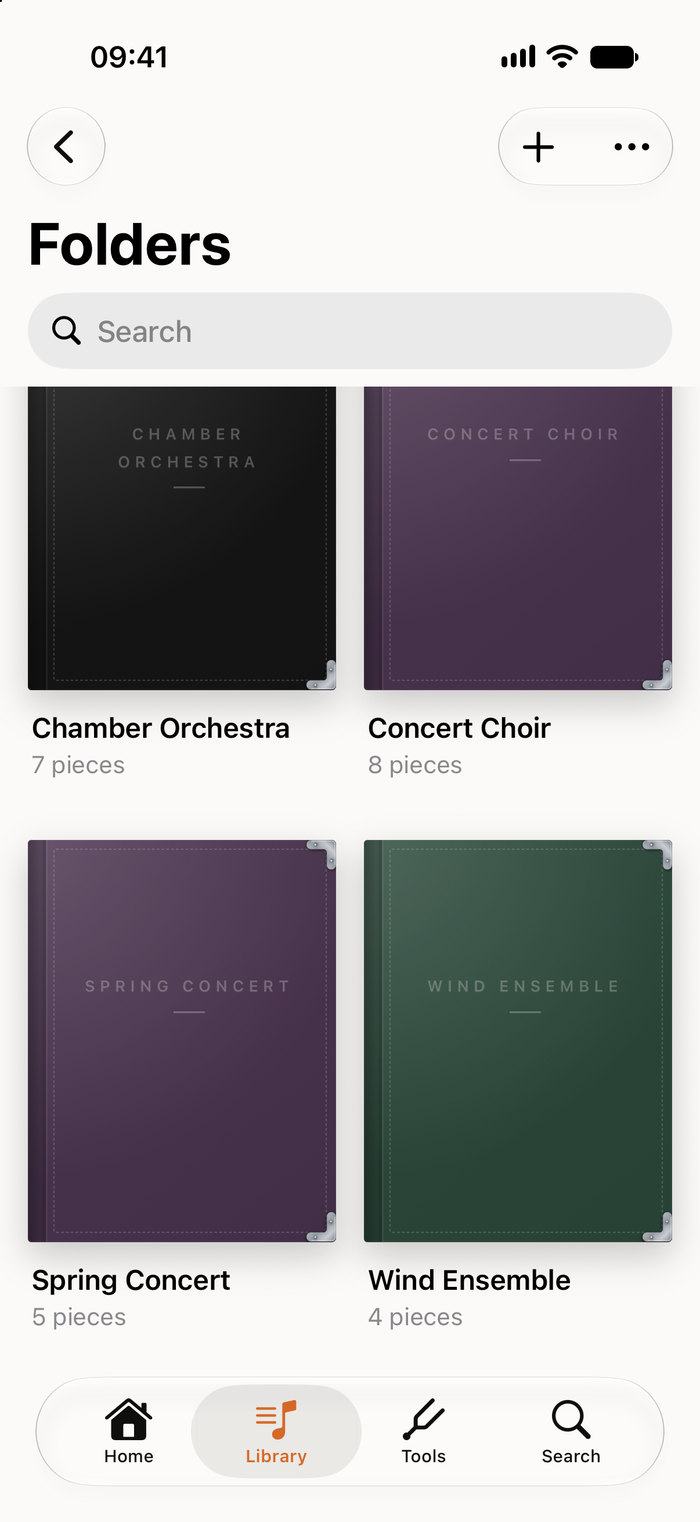
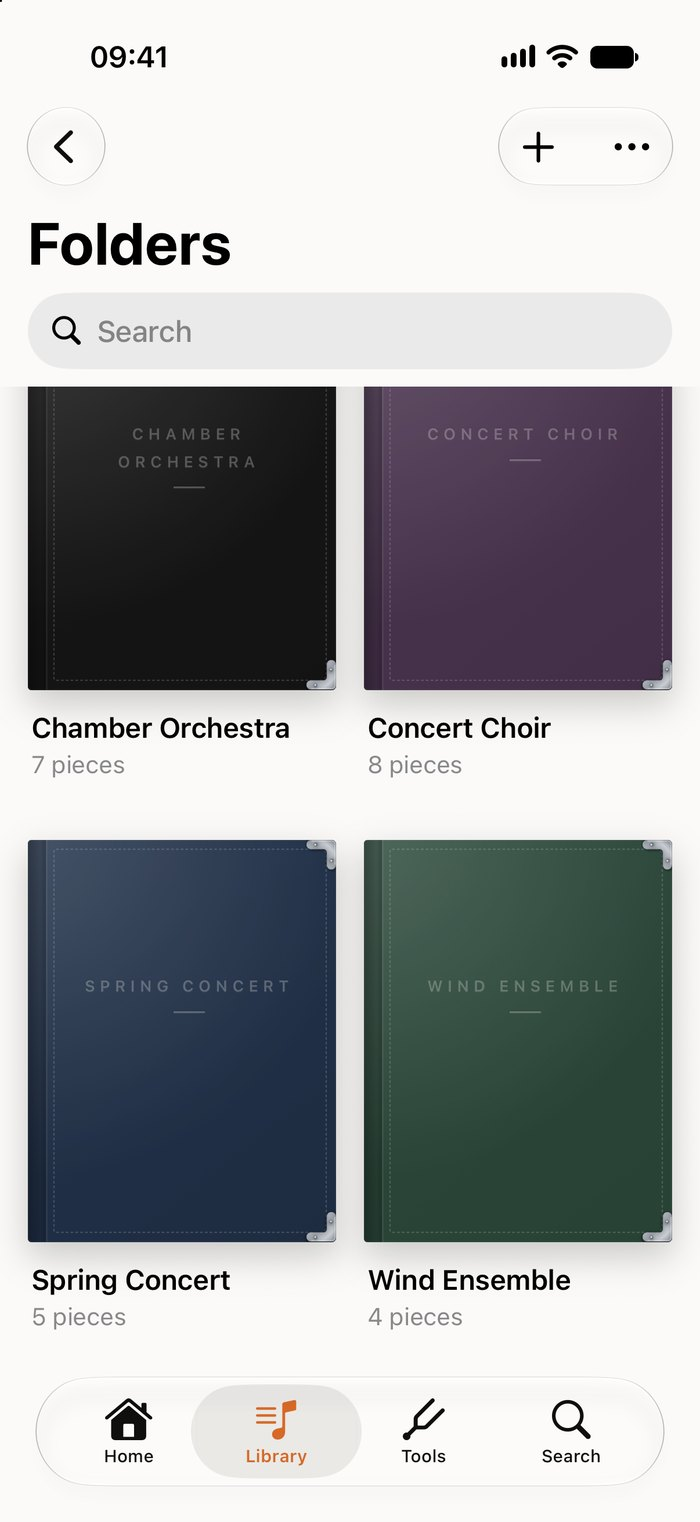
Orchestras & Choirs on Schubert's Ave Maria; Midnight Spring Concert; pencils; no "Free forever"
- Orchestras & Choirs hero: Schubert's Ave Maria (Ellens Gesang III, OpenScore
  CC0) in the 4.2 reader on MF iPad Pro 13 27.2, voice part with lyrics over the
  piano (reader-ave-maria-ipad.jpg, 900x1200), replacing the owner's horn part.
  Page Turner keeps hero-ipad-reader.jpg.
- Folders (iPhone): Spring Concert recoloured Midnight so it no longer matches
  Concert Choir's Plum; recaptured with the same framing.
- The Apple Pencil from Home rests on the single-iPad annotation frames on
  Orchestras & Choirs, Students and Sharing.
- Pricing and Home: "Free forever" removed under $0; Home's plan cards now
  match the 4.2 lists on the pricing page.

Changed region(s): [[0.03, 0.525, 0.48, 0.8338], [0.36, 0.9264, 0.42, 0.9573]]

diff --git a/pricing.html b/pricing.html
@@ -250,7 +250,7 @@
         <div class="plan-head">
           <h3 class="plan-name">Free</h3>
           <p class="plan-price tnum">$0</p>
-          <p class="plan-sub">Free forever</p>
+          
         </div>
         <ul class="plan-list">
           <li><svg viewBox="0 0 16 16" fill="none" stroke="currentColor" stroke-width="1.9" stroke-linecap="round" stroke-linejoin="round" aria-hidden="true"><path d="M3 8.5l3 3 7-7"/></svg><span><b>15</b> pieces</span></li>
@@ -297,7 +297,7 @@
 <section class="section" style="padding-top:0">
   <div class="wrap">
     <div class="section-head pr-center"><h2 class="heading">Everything in each plan.</h2></div>
-    <div class="pt-wrap"><table class="pt"><thead><tr><th scope="col"><span class="sr-only">Feature</span></th><th scope="col" class="pt-free"><span class="pt-name">Free</span><span class="pt-price">$0</span><span class="pt-sub">Free forever</span></th><th scope="col" class="pt-prem"><span class="pt-name">Premium</span><span class="pt-price">$2.99<small> / month</small></span><span class="pt-sub">or $19.99 / year · $49.99 lifetime</span></th></tr></thead><tbody><tr class="pt-group"><th scope="colgroup">Your library</th><td></td><td></td></tr><tr><th scope="row">Music</th><td class="tnum">15</td><td class="tnum">Unlimited</td></tr><tr><th scope="row">Sections</th><td class="tnum">5</td><td class="tnum">Unlimited</td></tr><tr><th scope="row">Folders</th><td class="tnum">1</td><td class="tnum">Unlimited</td></tr><tr><th scope="row">Set lists</th><td class="yes"><svg viewBox="0 0 16 16" fill="none" stroke="currentColor" stroke-width="1.9" stroke-linecap="round" stroke-linejoin="round" aria-hidden="true"><path d="M3 8.5l3 3 7-7"/></svg><span class="sr-only">Included</span></td><td class="yes"><svg viewBox="0 0 16 16" fill="none" stroke="currentColor" stroke-width="1.9" stroke-linecap="round" stroke-linejoin="round" aria-hidden="true"><path d="M3 8.5l3 3 7-7"/></svg><span class="sr-only">Included</span></td></tr><tr><th scope="row">Chord charts</th><td class="yes"><svg viewBox="0 0 16 16" fill="none" stroke="currentColor" stroke-width="1.9" stroke-linecap="round" stroke-linejoin="round" aria-hidden="true"><path d="M3 8.5l3 3 7-7"/></svg><span class="sr-only">Included</span></td><td class="yes"><svg viewBox="0 0 16 16" fill="none" stroke="currentColor" stroke-width="1.9" stroke-linecap="round" stroke-linejoin="round" aria-hidden="true"><path d="M3 8.5l3 3 7-7"/></svg><span class="sr-only">Included</span></td></tr><tr><th scope="row">Free sheet music from the catalog</th><td class="yes"><svg viewBox="0 0 16 16" fill="none" stroke="currentColor" stroke-width="1.9" stroke-linecap="round" stroke-linejoin="round" aria-hidden="true"><path d="M3 8.5l3 3 7-7"/></svg><span class="sr-only">Included</span></td><td class="yes"><svg viewBox="0 0 16 16" fill="none" stroke="currentColor" stroke-width="1.9" stroke-linecap="round" stroke-linejoin="round" aria-hidden="true"><path d="M3 8.5l3 3 7-7"/></svg><span class="sr-only">Included</span></td></tr><tr><th scope="row">Library backups</th><td class="yes"><svg viewBox="0 0 16 16" fill="none" stroke="currentColor" stroke-width="1.9" stroke-linecap="round" stroke-linejoin="round" aria-hidden="true"><path d="M3 8.5l3 3 7-7"/></svg><span class="sr-only">Included</span></td><td class="yes"><svg viewBox="0 0 16 16" fill="none" stroke="currentColor" stroke-width="1.9" stroke-linecap="round" stroke-linejoin="round" aria-hidden="true"><path d="M3 8.5l3 3 7-7"/></svg><span class="sr-only">Included</span></td></tr><tr class="pt-group"><th scope="colgroup">Reading and playing</th><td></td><td></td></tr><tr><th scope="row">Reader, landscape and play-through</th><td class="yes"><svg viewBox="0 0 16 16" fill="none" stroke="currentColor" stroke-width="1.9" stroke-linecap="round" stroke-linejoin="round" aria-hidden="true"><path d="M3 8.5l3 3 7-7"/></svg><span class="sr-only">Included</span></td><td class="yes"><svg viewBox="0 0 16 16" fill="none" stroke="currentColor" stroke-width="1.9" stroke-linecap="round" stroke-linejoin="round" aria-hidden="true"><path d="M3 8.5l3 3 7-7"/></svg><span class="sr-only">Included</span></td></tr><tr><th scope="row">Bluetooth page turning</th><td class="yes"><svg viewBox="0 0 16 16" fill="none" stroke="currentColor" stroke-width="1.9" stroke-linecap="round" stroke-linejoin="round" aria-hidden="true"><path d="M3 8.5l3 3 7-7"/></svg><span class="sr-only">Included</span></td><td class="yes"><svg viewBox="0 0 16 16" fill="none" stroke="currentColor" stroke-width="1.9" stroke-linecap="round" stroke-linejoin="round" aria-hidden="true"><path d="M3 8.5l3 3 7-7"/></svg><span class="sr-only">Included</span></td></tr><tr><th scope="row">Face Gesture page turning<sup>1</sup></th><td class="tnum">Demo</td><td class="yes"><svg viewBox="0 0 16 16" fill="none" stroke="currentColor" stroke-width="1.9" stroke-linecap="round" stroke-linejoin="round" aria-hidden="true"><path d="M3 8.5l3 3 7-7"/></svg><span class="sr-only">Included</span></td></tr><tr><th scope="row">Annotation with Apple Pencil</th><td class="yes"><svg viewBox="0 0 16 16" fill="none" stroke="currentColor" stroke-width="1.9" stroke-linecap="round" stroke-linejoin="round" aria-hidden="true"><path d="M3 8.5l3 3 7-7"/></svg><span class="sr-only">Included</span></td><td class="yes"><svg viewBox="0 0 16 16" fill="none" stroke="currentColor" stroke-width="1.9" stroke-linecap="round" stroke-linejoin="round" aria-hidden="true"><path d="M3 8.5l3 3 7-7"/></svg><span class="sr-only">Included</span></td></tr><tr><th scope="row">Song Notes</th><td class="yes"><svg viewBox="0 0 16 16" fill="none" stroke="currentColor" stroke-width="1.9" stroke-linecap="round" stroke-linejoin="round" aria-hidden="true"><path d="M3 8.5l3 3 7-7"/></svg><span class="sr-only">Included</span></td><td class="yes"><svg viewBox="0 0 16 16" fill="none" stroke="currentColor" stroke-width="1.9" stroke-linecap="round" stroke-linejoin="round" aria-hidden="true"><path d="M3 8.5l3 3 7-7"/></svg><span class="sr-only">Included</span></td></tr><tr><th scope="row">Chord chart transposition and capo</th><td class="no"><svg viewBox="0 0 16 16" fill="none" stroke="currentColor" stroke-width="1.6" stroke-linecap="round" aria-hidden="true"><path d="M4.5 8h7"/></svg><span class="sr-only">Not included</span></td><td class="yes"><svg viewBox="0 0 16 16" fill="none" stroke="currentColor" stroke-width="1.9" stroke-linecap="round" stroke-linejoin="round" aria-hidden="true"><path d="M3 8.5l3 3 7-7"/></svg><span class="sr-only">Included</span></td></tr><tr class="pt-group"><th scope="colgroup">Together</th><td></td><td></td></tr><tr><th scope="row">Collaboration on folders and set lists<sup>2</sup></th><td class="no"><svg viewBox="0 0 16 16" fill="none" stroke="currentColor" stroke-width="1.6" stroke-linecap="round" aria-hidden="true"><path d="M4.5 8h7"/></svg><span class="sr-only">Not included</span></td><td class="yes"><svg viewBox="0 0 16 16" fill="none" stroke="currentColor" stroke-width="1.9" stroke-linecap="round" stroke-linejoin="round" aria-hidden="true"><path d="M3 8.5l3 3 7-7"/></svg><span class="sr-only">Included</span></td></tr><tr><th scope="row">Send a one-time copy of music or a set list</th><td class="yes"><svg viewBox="0 0 16 16" fill="none" stroke="currentColor" stroke-width="1.9" stroke-linecap="round" stroke-linejoin="round" aria-hidden="true"><path d="M3 8.5l3 3 7-7"/></svg><span class="sr-only">Included</span></td><td class="yes"><svg viewBox="0 0 16 16" fill="none" stroke="currentColor" stroke-width="1.9" stroke-linecap="round" stroke-linejoin="round" aria-hidden="true"><path d="M3 8.5l3 3 7-7"/></svg><span class="sr-only">Included</span></td></tr><tr><th scope="row">iCloud sync across your devices</th><td class="yes"><svg viewBox="0 0 16 16" fill="none" stroke="currentColor" stroke-width="1.9" stroke-linecap="round" stroke-linejoin="round" aria-hidden="true"><path d="M3 8.5l3 3 7-7"/></svg><span class="sr-only">Included</span></td><td class="yes"><svg viewBox="0 0 16 16" fill="none" stroke="currentColor" stroke-width="1.9" stroke-linecap="round" stroke-linejoin="round" aria-hidden="true"><path d="M3 8.5l3 3 7-7"/></svg><span class="sr-only">Included</span></td></tr><tr class="pt-group"><th scope="colgroup">Practice</th><td></td><td></td></tr><tr><th scope="row">Recordings per song</th><td class="yes"><svg viewBox="0 0 16 16" fill="none" stroke="currentColor" stroke-width="1.9" stroke-linecap="round" stroke-linejoin="round" aria-hidden="true"><path d="M3 8.5l3 3 7-7"/></svg><span class="sr-only">Included</span></td><td class="yes"><svg viewBox="0 0 16 16" fill="none" stroke="currentColor" stroke-width="1.9" stroke-linecap="round" stroke-linejoin="round" aria-hidden="true"><path d="M3 8.5l3 3 7-7"/></svg><span class="sr-only">Included</span></td></tr><tr><th scope="row">Practice streaks</th><td class="yes"><svg viewBox="0 0 16 16" fill="none" stroke="currentColor" stroke-width="1.9" stroke-linecap="round" stroke-linejoin="round" aria-hidden="true"><path d="M3 8.5l3 3 7-7"/></svg><span class="sr-only">Included</span></td><td class="yes"><svg viewBox="0 0 16 16" fill="none" stroke="currentColor" stroke-width="1.9" stroke-linecap="round" stroke-linejoin="round" aria-hidden="true"><path d="M3 8.5l3 3 7-7"/></svg><span class="sr-only">Included</span></td></tr><tr><th scope="row">Metronome</th><td class="no"><svg viewBox="0 0 16 16" fill="none" stroke="currentColor" stroke-width="1.6" stroke-linecap="round" aria-hidden="true"><path d="M4.5 8h7"/></svg><span class="sr-only">Not included</span></td><td class="yes"><svg viewBox="0 0 16 16" fill="none" stroke="currentColor" stroke-width="1.9" stroke-linecap="round" stroke-linejoin="round" aria-hidden="true"><path d="M3 8.5l3 3 7-7"/></svg><span class="sr-only">Included</span></td></tr><tr><th scope="row">Tuner, tones and drones</th><td class="no"><svg viewBox="0 0 16 16" fill="none" stroke="currentColor" stroke-width="1.6" stroke-linecap="round" aria-hidden="true"><path d="M4.5 8h7"/></svg><span class="sr-only">Not included</span></td><td class="yes"><svg viewBox="0 0 16 16" fill="none" stroke="currentColor" stroke-width="1.9" stroke-linecap="round" stroke-linejoin="round" aria-hidden="true"><path d="M3 8.5l3 3 7-7"/></svg><span class="sr-only">Included</span></td></tr><tr><th scope="row">88-key piano</th><td class="no"><svg viewBox="0 0 16 16" fill="none" stroke="currentColor" stroke-width="1.6" stroke-linecap="round" aria-hidden="true"><path d="M4.5 8h7"/></svg><span class="sr-only">Not included</span></td><td class="yes"><svg viewBox="0 0 16 16" fill="none" stroke="currentColor" stroke-width="1.9" stroke-linecap="round" stroke-linejoin="round" aria-hidden="true"><path d="M3 8.5l3 3 7-7"/></svg><span class="sr-only">Included</span></td></tr><tr class="pt-group"><th scope="colgroup">Integrations</th><td></td><td></td></tr><tr><th scope="row">Planning Center Services<sup>3</sup></th><td class="no"><svg viewBox="0 0 16 16" fill="none" stroke="currentColor" stroke-width="1.6" stroke-linecap="round" aria-hidden="true"><path d="M4.5 8h7"/></svg><span class="sr-only">Not included</span></td><td class="yes"><svg viewBox="0 0 16 16" fill="none" stroke="currentColor" stroke-width="1.9" stroke-linecap="round" stroke-linejoin="round" aria-hidden="true"><path d="M3 8.5l3 3 7-7"/></svg><span class="sr-only">Included</span></td></tr></tbody><tfoot><tr><td></td><td><a class="pt-cta" href="/get?from=pricing-plan-free">Start free</a></td><td><a class="pt-cta pt-cta-prem" href="/get?from=pricing-plan-premium">Try Premium free</a></td></tr></tfoot></table></div><ol class="pt-notes"><li>Needs an iPhone or iPad with Face ID. Free includes setup and a try-out.</li><li>Collaboration is Premium for everyone taking part: the person who shares and each person who joins.</li><li>Needs a Planning Center Services account.</li></ol>
+    <div class="pt-wrap"><table class="pt"><thead><tr><th scope="col"><span class="sr-only">Feature</span></th><th scope="col" class="pt-free"><span class="pt-name">Free</span><span class="pt-price">$0</span></th><th scope="col" class="pt-prem"><span class="pt-name">Premium</span><span class="pt-price">$2.99<small> / month</small></span><span class="pt-sub">or $19.99 / year · $49.99 lifetime</span></th></tr></thead><tbody><tr class="pt-group"><th scope="colgroup">Your library</th><td></td><td></td></tr><tr><th scope="row">Music</th><td class="tnum">15</td><td class="tnum">Unlimited</td></tr><tr><th scope="row">Sections</th><td class="tnum">5</td><td class="tnum">Unlimited</td></tr><tr><th scope="row">Folders</th><td class="tnum">1</td><td class="tnum">Unlimited</td></tr><tr><th scope="row">Set lists</th><td class="yes"><svg viewBox="0 0 16 16" fill="none" stroke="currentColor" stroke-width="1.9" stroke-linecap="round" stroke-linejoin="round" aria-hidden="true"><path d="M3 8.5l3 3 7-7"/></svg><span class="sr-only">Included</span></td><td class="yes"><svg viewBox="0 0 16 16" fill="none" stroke="currentColor" stroke-width="1.9" stroke-linecap="round" stroke-linejoin="round" aria-hidden="true"><path d="M3 8.5l3 3 7-7"/></svg><span class="sr-only">Included</span></td></tr><tr><th scope="row">Chord charts</th><td class="yes"><svg viewBox="0 0 16 16" fill="none" stroke="currentColor" stroke-width="1.9" stroke-linecap="round" stroke-linejoin="round" aria-hidden="true"><path d="M3 8.5l3 3 7-7"/></svg><span class="sr-only">Included</span></td><td class="yes"><svg viewBox="0 0 16 16" fill="none" stroke="currentColor" stroke-width="1.9" stroke-linecap="round" stroke-linejoin="round" aria-hidden="true"><path d="M3 8.5l3 3 7-7"/></svg><span class="sr-only">Included</span></td></tr><tr><th scope="row">Free sheet music from the catalog</th><td class="yes"><svg viewBox="0 0 16 16" fill="none" stroke="currentColor" stroke-width="1.9" stroke-linecap="round" stroke-linejoin="round" aria-hidden="true"><path d="M3 8.5l3 3 7-7"/></svg><span class="sr-only">Included</span></td><td class="yes"><svg viewBox="0 0 16 16" fill="none" stroke="currentColor" stroke-width="1.9" stroke-linecap="round" stroke-linejoin="round" aria-hidden="true"><path d="M3 8.5l3 3 7-7"/></svg><span class="sr-only">Included</span></td></tr><tr><th scope="row">Library backups</th><td class="yes"><svg viewBox="0 0 16 16" fill="none" stroke="currentColor" stroke-width="1.9" stroke-linecap="round" stroke-linejoin="round" aria-hidden="true"><path d="M3 8.5l3 3 7-7"/></svg><span class="sr-only">Included</span></td><td class="yes"><svg viewBox="0 0 16 16" fill="none" stroke="currentColor" stroke-width="1.9" stroke-linecap="round" stroke-linejoin="round" aria-hidden="true"><path d="M3 8.5l3 3 7-7"/></svg><span class="sr-only">Included</span></td></tr><tr class="pt-group"><th scope="colgroup">Reading and playing</th><td></td><td></td></tr><tr><th scope="row">Reader, landscape and play-through</th><td class="yes"><svg viewBox="0 0 16 16" fill="none" stroke="currentColor" stroke-width="1.9" stroke-linecap="round" stroke-linejoin="round" aria-hidden="true"><path d="M3 8.5l3 3 7-7"/></svg><span class="sr-only">Included</span></td><td class="yes"><svg viewBox="0 0 16 16" fill="none" stroke="currentColor" stroke-width="1.9" stroke-linecap="round" stroke-linejoin="round" aria-hidden="true"><path d="M3 8.5l3 3 7-7"/></svg><span class="sr-only">Included</span></td></tr><tr><th scope="row">Bluetooth page turning</th><td class="yes"><svg viewBox="0 0 16 16" fill="none" stroke="currentColor" stroke-width="1.9" stroke-linecap="round" stroke-linejoin="round" aria-hidden="true"><path d="M3 8.5l3 3 7-7"/></svg><span class="sr-only">Included</span></td><td class="yes"><svg viewBox="0 0 16 16" fill="none" stroke="currentColor" stroke-width="1.9" stroke-linecap="round" stroke-linejoin="round" aria-hidden="true"><path d="M3 8.5l3 3 7-7"/></svg><span class="sr-only">Included</span></td></tr><tr><th scope="row">Face Gesture page turning<sup>1</sup></th><td class="tnum">Demo</td><td class="yes"><svg viewBox="0 0 16 16" fill="none" stroke="currentColor" stroke-width="1.9" stroke-linecap="round" stroke-linejoin="round" aria-hidden="true"><path d="M3 8.5l3 3 7-7"/></svg><span class="sr-only">Included</span></td></tr><tr><th scope="row">Annotation with Apple Pencil</th><td class="yes"><svg viewBox="0 0 16 16" fill="none" stroke="currentColor" stroke-width="1.9" stroke-linecap="round" stroke-linejoin="round" aria-hidden="true"><path d="M3 8.5l3 3 7-7"/></svg><span class="sr-only">Included</span></td><td class="yes"><svg viewBox="0 0 16 16" fill="none" stroke="currentColor" stroke-width="1.9" stroke-linecap="round" stroke-linejoin="round" aria-hidden="true"><path d="M3 8.5l3 3 7-7"/></svg><span class="sr-only">Included</span></td></tr><tr><th scope="row">Song Notes</th><td class="yes"><svg viewBox="0 0 16 16" fill="none" stroke="currentColor" stroke-width="1.9" stroke-linecap="round" stroke-linejoin="round" aria-hidden="true"><path d="M3 8.5l3 3 7-7"/></svg><span class="sr-only">Included</span></td><td class="yes"><svg viewBox="0 0 16 16" fill="none" stroke="currentColor" stroke-width="1.9" stroke-linecap="round" stroke-linejoin="round" aria-hidden="true"><path d="M3 8.5l3 3 7-7"/></svg><span class="sr-only">Included</span></td></tr><tr><th scope="row">Chord chart transposition and capo</th><td class="no"><svg viewBox="0 0 16 16" fill="none" stroke="currentColor" stroke-width="1.6" stroke-linecap="round" aria-hidden="true"><path d="M4.5 8h7"/></svg><span class="sr-only">Not included</span></td><td class="yes"><svg viewBox="0 0 16 16" fill="none" stroke="currentColor" stroke-width="1.9" stroke-linecap="round" stroke-linejoin="round" aria-hidden="true"><path d="M3 8.5l3 3 7-7"/></svg><span class="sr-only">Included</span></td></tr><tr class="pt-group"><th scope="colgroup">Together</th><td></td><td></td></tr><tr><th scope="row">Collaboration on folders and set lists<sup>2</sup></th><td class="no"><svg viewBox="0 0 16 16" fill="none" stroke="currentColor" stroke-width="1.6" stroke-linecap="round" aria-hidden="true"><path d="M4.5 8h7"/></svg><span class="sr-only">Not included</span></td><td class="yes"><svg viewBox="0 0 16 16" fill="none" stroke="currentColor" stroke-width="1.9" stroke-linecap="round" stroke-linejoin="round" aria-hidden="true"><path d="M3 8.5l3 3 7-7"/></svg><span class="sr-only">Included</span></td></tr><tr><th scope="row">Send a one-time copy of music or a set list</th><td class="yes"><svg viewBox="0 0 16 16" fill="none" stroke="currentColor" stroke-width="1.9" stroke-linecap="round" stroke-linejoin="round" aria-hidden="true"><path d="M3 8.5l3 3 7-7"/></svg><span class="sr-only">Included</span></td><td class="yes"><svg viewBox="0 0 16 16" fill="none" stroke="currentColor" stroke-width="1.9" stroke-linecap="round" stroke-linejoin="round" aria-hidden="true"><path d="M3 8.5l3 3 7-7"/></svg><span class="sr-only">Included</span></td></tr><tr><th scope="row">iCloud sync across your devices</th><td class="yes"><svg viewBox="0 0 16 16" fill="none" stroke="currentColor" stroke-width="1.9" stroke-linecap="round" stroke-linejoin="round" aria-hidden="true"><path d="M3 8.5l3 3 7-7"/></svg><span class="sr-only">Included</span></td><td class="yes"><svg viewBox="0 0 16 16" fill="none" stroke="currentColor" stroke-width="1.9" stroke-linecap="round" stroke-linejoin="round" aria-hidden="true"><path d="M3 8.5l3 3 7-7"/></svg><span class="sr-only">Included</span></td></tr><tr class="pt-group"><th scope="colgroup">Practice</th><td></td><td></td></tr><tr><th scope="row">Recordings per song</th><td class="yes"><svg viewBox="0 0 16 16" fill="none" stroke="currentColor" stroke-width="1.9" stroke-linecap="round" stroke-linejoin="round" aria-hidden="true"><path d="M3 8.5l3 3 7-7"/></svg><span class="sr-only">Included</span></td><td class="yes"><svg viewBox="0 0 16 16" fill="none" stroke="currentColor" stroke-width="1.9" stroke-linecap="round" stroke-linejoin="round" aria-hidden="true"><path d="M3 8.5l3 3 7-7"/></svg><span class="sr-only">Included</span></td></tr><tr><th scope="row">Practice streaks</th><td class="yes"><svg viewBox="0 0 16 16" fill="none" stroke="currentColor" stroke-width="1.9" stroke-linecap="round" stroke-linejoin="round" aria-hidden="true"><path d="M3 8.5l3 3 7-7"/></svg><span class="sr-only">Included</span></td><td class="yes"><svg viewBox="0 0 16 16" fill="none" stroke="currentColor" stroke-width="1.9" stroke-linecap="round" stroke-linejoin="round" aria-hidden="true"><path d="M3 8.5l3 3 7-7"/></svg><span class="sr-only">Included</span></td></tr><tr><th scope="row">Metronome</th><td class="no"><svg viewBox="0 0 16 16" fill="none" stroke="currentColor" stroke-width="1.6" stroke-linecap="round" aria-hidden="true"><path d="M4.5 8h7"/></svg><span class="sr-only">Not included</span></td><td class="yes"><svg viewBox="0 0 16 16" fill="none" stroke="currentColor" stroke-width="1.9" stroke-linecap="round" stroke-linejoin="round" aria-hidden="true"><path d="M3 8.5l3 3 7-7"/></svg><span class="sr-only">Included</span></td></tr><tr><th scope="row">Tuner, tones and drones</th><td class="no"><svg viewBox="0 0 16 16" fill="none" stroke="currentColor" stroke-width="1.6" stroke-linecap="round" aria-hidden="true"><path d="M4.5 8h7"/></svg><span class="sr-only">Not included</span></td><td class="yes"><svg viewBox="0 0 16 16" fill="none" stroke="currentColor" stroke-width="1.9" stroke-linecap="round" stroke-linejoin="round" aria-hidden="true"><path d="M3 8.5l3 3 7-7"/></svg><span class="sr-only">Included</span></td></tr><tr><th scope="row">88-key piano</th><td class="no"><svg viewBox="0 0 16 16" fill="none" stroke="currentColor" stroke-width="1.6" stroke-linecap="round" aria-hidden="true"><path d="M4.5 8h7"/></svg><span class="sr-only">Not included</span></td><td class="yes"><svg viewBox="0 0 16 16" fill="none" stroke="currentColor" stroke-width="1.9" stroke-linecap="round" stroke-linejoin="round" aria-hidden="true"><path d="M3 8.5l3 3 7-7"/></svg><span class="sr-only">Included</span></td></tr><tr class="pt-group"><th scope="colgroup">Integrations</th><td></td><td></td></tr><tr><th scope="row">Planning Center Services<sup>3</sup></th><td class="no"><svg viewBox="0 0 16 16" fill="none" stroke="currentColor" stroke-width="1.6" stroke-linecap="round" aria-hidden="true"><path d="M4.5 8h7"/></svg><span class="sr-only">Not included</span></td><td class="yes"><svg viewBox="0 0 16 16" fill="none" stroke="currentColor" stroke-width="1.9" stroke-linecap="round" stroke-linejoin="round" aria-hidden="true"><path d="M3 8.5l3 3 7-7"/></svg><span class="sr-only">Included</span></td></tr></tbody><tfoot><tr><td></td><td><a class="pt-cta" href="/get?from=pricing-plan-free">Start free</a></td><td><a class="pt-cta pt-cta-prem" href="/get?from=pricing-plan-premium">Try Premium free</a></td></tr></tfoot></table></div><ol class="pt-notes"><li>Needs an iPhone or iPad with Face ID. Free includes setup and a try-out.</li><li>Collaboration is Premium for everyone taking part: the person who shares and each person who joins.</li><li>Needs a Planning Center Services account.</li></ol>
   </div>
 </section>
 

diff --git a/for/orchestras-choirs.html b/for/orchestras-choirs.html
@@ -204,7 +204,7 @@
       <p class="lede">Every part, organized and shared. Build the concert program as a set list, send it to the ensemble, and everyone plays from the same pages in the same order.</p>
       <div class="cta-row"><a class="badge-link" href="/get?from=for-orchestras-choirs-hero"><picture><img src="https://toolbox.marketingtools.apple.com/api/badges/download-on-the-app-store/black/en-us?size=250x83" alt="Download on the App Store" width="144" height="48"></picture></a></div>
     </div>
-    <div class="lp-visual"><div class="device tablet fit"><div class="screen shot"><img src="/assets/hero-ipad-reader.jpg" alt="A horn part open in Music Folder on iPad, with the reader's toolbar at the top" width="900" height="1305"></div></div></div>
+    <div class="lp-visual"><div class="device tablet fit"><div class="screen shot"><img src="/assets/reader-ave-maria-ipad.jpg?v=1" alt="Schubert's Ave Maria open in Music Folder on iPad: the voice part with its lyrics above the piano, and the reader's toolbar at the top" width="900" height="1200"></div></div></div>
   </div>
 </section>
 
@@ -222,10 +222,10 @@
       <div class="rf-visual"><div class="device tablet landscape fit"><div class="screen shot"><img src="/assets/setlist-concert-ipad.jpg?v=4" alt="A set list called Spring Concert in Music Folder on iPad: six pieces in performance order, each with composer, key, tempo and length, a black Intermission page with a 15-minute timer after the third piece, and the set’s total time beside Perform Set, Share and Collaborate" width="1306" height="980" loading="lazy"></div></div></div>
     </div><div class="row-feature flip">
       <div class="rf-text"><h2 class="heading-sm">A library organized <em>your way.</em></h2><p>Keep your music in folders by ensemble, season or genre. Share a folder and the whole choir has the season's repertoire, with every new piece added for everyone.</p><ul class="rf-points"><li><svg viewBox="0 0 16 16" fill="none" stroke="currentColor" stroke-width="1.9" stroke-linecap="round" stroke-linejoin="round" aria-hidden="true"><path d="M3 8.5l3 3 7-7"/></svg><span>Folders by ensemble, season or genre</span></li><li><svg viewBox="0 0 16 16" fill="none" stroke="currentColor" stroke-width="1.9" stroke-linecap="round" stroke-linejoin="round" aria-hidden="true"><path d="M3 8.5l3 3 7-7"/></svg><span>Share a folder, or send a one-time copy</span></li><li><svg viewBox="0 0 16 16" fill="none" stroke="currentColor" stroke-width="1.9" stroke-linecap="round" stroke-linejoin="round" aria-hidden="true"><path d="M3 8.5l3 3 7-7"/></svg><span>Tags and search to find any piece</span></li></ul></div>
-      <div class="rf-visual"><div class="device phone fit"><div class="screen shot"><img src="/assets/folders-iphone.jpg?v=3" alt="The Folders screen in Music Folder on iPhone: four folders, Chamber Orchestra, Concert Choir, Spring Concert and Wind Ensemble, each with its piece count" width="700" height="1522" loading="lazy"></div></div></div>
+      <div class="rf-visual"><div class="device phone fit"><div class="screen shot"><img src="/assets/folders-iphone.jpg?v=4" alt="The Folders screen in Music Folder on iPhone: four folders, Chamber Orchestra, Concert Choir, Spring Concert and Wind Ensemble, each with its piece count" width="700" height="1522" loading="lazy"></div></div></div>
     </div><div class="row-feature">
       <div class="rf-text"><h2 class="heading-sm">Mark it up like <em>pencil on paper.</em></h2><p>Circle the cut, pencil in the breath, highlight your entrance. Write with Apple Pencil or your finger and every mark saves.</p><ul class="rf-points"><li><svg viewBox="0 0 16 16" fill="none" stroke="currentColor" stroke-width="1.9" stroke-linecap="round" stroke-linejoin="round" aria-hidden="true"><path d="M3 8.5l3 3 7-7"/></svg><span>Pens, highlighters and text in several colors</span></li><li><svg viewBox="0 0 16 16" fill="none" stroke="currentColor" stroke-width="1.9" stroke-linecap="round" stroke-linejoin="round" aria-hidden="true"><path d="M3 8.5l3 3 7-7"/></svg><span>Each musician's markings stay their own</span></li><li><svg viewBox="0 0 16 16" fill="none" stroke="currentColor" stroke-width="1.9" stroke-linecap="round" stroke-linejoin="round" aria-hidden="true"><path d="M3 8.5l3 3 7-7"/></svg><span>Song notes for rehearsal reminders</span></li></ul></div>
-      <div class="rf-visual"><div class="device tablet fit"><div class="screen shot"><img src="/assets/annotate-ipad.jpg?v=3" alt="A score in Music Folder on iPad, marked up with circles, highlights, handwritten notes and music symbols, with the pen palette and the Symbols panel open" width="900" height="1200" loading="lazy"></div></div></div>
+      <div class="rf-visual"><div class="device tablet fit"><div class="screen shot"><img src="/assets/annotate-ipad.jpg?v=3" alt="A score in Music Folder on iPad, marked up with circles, highlights, handwritten notes and music symbols, with the pen palette and the Symbols panel open" width="900" height="1200" loading="lazy"></div><svg class="pencil" viewBox="0 0 380 22" aria-hidden="true" focusable="false"><defs><linearGradient id="pcBodyMO" x1="0" y1="0" x2="0" y2="1"><stop offset="0" stop-color="#FFFFFF"/><stop offset=".38" stop-color="#F7F7F5"/><stop offset=".8" stop-color="#DEDEDA"/><stop offset="1" stop-color="#C9C9C5"/></linearGradient><linearGradient id="pcTipMO" x1="0" y1="0" x2="0" y2="1"><stop offset="0" stop-color="#FAFAF8"/><stop offset="1" stop-color="#CFCFCB"/></linearGradient></defs><path d="M34 1H369a10 10 0 0 1 0 20H34Z" fill="url(#pcBodyMO)"/><path d="M34 4.2H369" stroke="#fff" stroke-width="1.6" opacity=".9"/><path d="M34 15.6H372" stroke="#000" stroke-opacity=".05" stroke-width="1"/><path d="M34 1L7 9.2v3.6L34 21Z" fill="url(#pcTipMO)"/><path d="M8.2 8.8L1 10.4a.7.7 0 0 0 0 1.2L8.2 13.2Z" fill="#8E8E8A"/><path d="M34 1v20" stroke="#000" stroke-opacity=".06"/></svg></div></div>
     </div><div class="row-feature flip">
       <div class="rf-text"><h2 class="heading-sm">Ready for the <em>classroom.</em></h2><p>Band and choir directors share a folder with the class. Students read view-only parts at rehearsal and practice from the same music at home.</p><ul class="rf-points"><li><svg viewBox="0 0 16 16" fill="none" stroke="currentColor" stroke-width="1.9" stroke-linecap="round" stroke-linejoin="round" aria-hidden="true"><path d="M3 8.5l3 3 7-7"/></svg><span>A folder for each class, a set list for each concert</span></li><li><svg viewBox="0 0 16 16" fill="none" stroke="currentColor" stroke-width="1.9" stroke-linecap="round" stroke-linejoin="round" aria-hidden="true"><path d="M3 8.5l3 3 7-7"/></svg><span>Students on view only, staff can edit</span></li><li><svg viewBox="0 0 16 16" fill="none" stroke="currentColor" stroke-width="1.9" stroke-linecap="round" stroke-linejoin="round" aria-hidden="true"><path d="M3 8.5l3 3 7-7"/></svg><span>A tuner and metronome for home practice</span></li></ul></div>
       <div class="rf-visual"><div class="device tablet fit"><div class="screen shot"><img src="/assets/collab-ensemble-ipad.jpg?v=1" alt="A shared Ensemble folder of sheet music in Music Folder on iPad, with its four participants: the owner, a co-owner, one who can edit and one who can view and download" width="900" height="1306" loading="lazy"></div></div></div>

diff --git a/index.html b/index.html
@@ -416,15 +416,16 @@
         <div class="plan-head">
           <h3 class="plan-name">Free</h3>
           <p class="plan-price tnum">$0</p>
-          <p class="plan-sub">Free forever</p>
         </div>
         <ul class="plan-list">
-          <li><svg viewBox="0 0 16 16" fill="none" stroke="currentColor" stroke-width="1.9" stroke-linecap="round" stroke-linejoin="round" aria-hidden="true"><path d="M3 8.5l3 3 7-7"/></svg><span><b>15</b> songs</span></li>
-          <li><svg viewBox="0 0 16 16" fill="none" stroke="currentColor" stroke-width="1.9" stroke-linecap="round" stroke-linejoin="round" aria-hidden="true"><path d="M3 8.5l3 3 7-7"/></svg><span><b>1</b> book</span></li>
+          <li><svg viewBox="0 0 16 16" fill="none" stroke="currentColor" stroke-width="1.9" stroke-linecap="round" stroke-linejoin="round" aria-hidden="true"><path d="M3 8.5l3 3 7-7"/></svg><span><b>15</b> pieces</span></li>
+          <li><svg viewBox="0 0 16 16" fill="none" stroke="currentColor" stroke-width="1.9" stroke-linecap="round" stroke-linejoin="round" aria-hidden="true"><path d="M3 8.5l3 3 7-7"/></svg><span><b>5</b> sections</span></li>
           <li><svg viewBox="0 0 16 16" fill="none" stroke="currentColor" stroke-width="1.9" stroke-linecap="round" stroke-linejoin="round" aria-hidden="true"><path d="M3 8.5l3 3 7-7"/></svg><span><b>1</b> folder</span></li>
-          <li><svg viewBox="0 0 16 16" fill="none" stroke="currentColor" stroke-width="1.9" stroke-linecap="round" stroke-linejoin="round" aria-hidden="true"><path d="M3 8.5l3 3 7-7"/></svg><span>Set lists, reader and Apple Pencil</span></li>
-          <li><svg viewBox="0 0 16 16" fill="none" stroke="currentColor" stroke-width="1.9" stroke-linecap="round" stroke-linejoin="round" aria-hidden="true"><path d="M3 8.5l3 3 7-7"/></svg><span>iCloud sync</span></li>
+          <li><svg viewBox="0 0 16 16" fill="none" stroke="currentColor" stroke-width="1.9" stroke-linecap="round" stroke-linejoin="round" aria-hidden="true"><path d="M3 8.5l3 3 7-7"/></svg><span>Set lists, reader, chord charts and Apple Pencil</span></li>
+          <li><svg viewBox="0 0 16 16" fill="none" stroke="currentColor" stroke-width="1.9" stroke-linecap="round" stroke-linejoin="round" aria-hidden="true"><path d="M3 8.5l3 3 7-7"/></svg><span>iCloud sync and backups</span></li>
           <li class="off"><svg viewBox="0 0 16 16" fill="none" stroke="currentColor" stroke-width="1.6" stroke-linecap="round" aria-hidden="true"><path d="M4.5 8h7"/></svg><span>Metronome, tuner, tones and piano <span class="sr-only">(not included)</span></span></li>
+          <li class="off"><svg viewBox="0 0 16 16" fill="none" stroke="currentColor" stroke-width="1.6" stroke-linecap="round" aria-hidden="true"><path d="M4.5 8h7"/></svg><span>Transpose chord charts and set a capo <span class="sr-only">(not included)</span></span></li>
+          <li class="off"><svg viewBox="0 0 16 16" fill="none" stroke="currentColor" stroke-width="1.6" stroke-linecap="round" aria-hidden="true"><path d="M4.5 8h7"/></svg><span>Collaboration with your ensemble <span class="sr-only">(not included)</span></span></li>
           <li class="off"><svg viewBox="0 0 16 16" fill="none" stroke="currentColor" stroke-width="1.6" stroke-linecap="round" aria-hidden="true"><path d="M4.5 8h7"/></svg><span>Planning Center <span class="sr-only">(not included)</span></span></li>
         </ul>
       </div>
@@ -436,12 +437,14 @@
           <p class="plan-trial">Try it free for 7 days</p>
         </div>
         <ul class="plan-list">
-          <li><svg viewBox="0 0 16 16" fill="none" stroke="currentColor" stroke-width="1.9" stroke-linecap="round" stroke-linejoin="round" aria-hidden="true"><path d="M3 8.5l3 3 7-7"/></svg><span><b>Unlimited</b> songs</span></li>
-          <li><svg viewBox="0 0 16 16" fill="none" stroke="currentColor" stroke-width="1.9" stroke-linecap="round" stroke-linejoin="round" aria-hidden="true"><path d="M3 8.5l3 3 7-7"/></svg><span><b>Unlimited</b> books</span></li>
+          <li><svg viewBox="0 0 16 16" fill="none" stroke="currentColor" stroke-width="1.9" stroke-linecap="round" stroke-linejoin="round" aria-hidden="true"><path d="M3 8.5l3 3 7-7"/></svg><span><b>Unlimited</b> pieces</span></li>
+          <li><svg viewBox="0 0 16 16" fill="none" stroke="currentColor" stroke-width="1.9" stroke-linecap="round" stroke-linejoin="round" aria-hidden="true"><path d="M3 8.5l3 3 7-7"/></svg><span><b>Unlimited</b> sections</span></li>
           <li><svg viewBox="0 0 16 16" fill="none" stroke="currentColor" stroke-width="1.9" stroke-linecap="round" stroke-linejoin="round" aria-hidden="true"><path d="M3 8.5l3 3 7-7"/></svg><span><b>Unlimited</b> folders</span></li>
-          <li><svg viewBox="0 0 16 16" fill="none" stroke="currentColor" stroke-width="1.9" stroke-linecap="round" stroke-linejoin="round" aria-hidden="true"><path d="M3 8.5l3 3 7-7"/></svg><span>Set lists, reader and Apple Pencil</span></li>
-          <li><svg viewBox="0 0 16 16" fill="none" stroke="currentColor" stroke-width="1.9" stroke-linecap="round" stroke-linejoin="round" aria-hidden="true"><path d="M3 8.5l3 3 7-7"/></svg><span>iCloud sync</span></li>
+          <li><svg viewBox="0 0 16 16" fill="none" stroke="currentColor" stroke-width="1.9" stroke-linecap="round" stroke-linejoin="round" aria-hidden="true"><path d="M3 8.5l3 3 7-7"/></svg><span>Set lists, reader, chord charts and Apple Pencil</span></li>
+          <li><svg viewBox="0 0 16 16" fill="none" stroke="currentColor" stroke-width="1.9" stroke-linecap="round" stroke-linejoin="round" aria-hidden="true"><path d="M3 8.5l3 3 7-7"/></svg><span>iCloud sync and backups</span></li>
           <li><svg viewBox="0 0 16 16" fill="none" stroke="currentColor" stroke-width="1.9" stroke-linecap="round" stroke-linejoin="round" aria-hidden="true"><path d="M3 8.5l3 3 7-7"/></svg><span>Metronome, tuner, tones and piano</span></li>
+          <li><svg viewBox="0 0 16 16" fill="none" stroke="currentColor" stroke-width="1.9" stroke-linecap="round" stroke-linejoin="round" aria-hidden="true"><path d="M3 8.5l3 3 7-7"/></svg><span>Transpose chord charts and set a capo</span></li>
+          <li><svg viewBox="0 0 16 16" fill="none" stroke="currentColor" stroke-width="1.9" stroke-linecap="round" stroke-linejoin="round" aria-hidden="true"><path d="M3 8.5l3 3 7-7"/></svg><span>Collaboration with your ensemble</span></li>
           <li><svg viewBox="0 0 16 16" fill="none" stroke="currentColor" stroke-width="1.9" stroke-linecap="round" stroke-linejoin="round" aria-hidden="true"><path d="M3 8.5l3 3 7-7"/></svg><span>Planning Center</span></li>
         </ul>
       </div>

diff --git a/features/sharing.html b/features/sharing.html
@@ -221,7 +221,7 @@
       <div class="rf-visual"><div class="device phone fit"><div class="screen shot"><img src="/assets/collab-iphone.jpg?v=2" alt="The share settings for a Church Band folder in Music Folder on iPhone: the owner, a co-owner, one who can edit and one who can view and download" width="700" height="1522" loading="lazy"></div></div></div>
     </div><div class="row-feature flip">
       <div class="rf-text"><h2 class="heading-sm">Everyone keeps <em>their own markings.</em></h2><p>Shared music arrives clean. Each musician marks up their own copy with Apple Pencil, and their markings stay theirs.</p><ul class="rf-points"><li><svg viewBox="0 0 16 16" fill="none" stroke="currentColor" stroke-width="1.9" stroke-linecap="round" stroke-linejoin="round" aria-hidden="true"><path d="M3 8.5l3 3 7-7"/></svg><span>Fingerings and cues that suit each player</span></li><li><svg viewBox="0 0 16 16" fill="none" stroke="currentColor" stroke-width="1.9" stroke-linecap="round" stroke-linejoin="round" aria-hidden="true"><path d="M3 8.5l3 3 7-7"/></svg><span>No one’s markings overwrite anyone else’s</span></li><li><svg viewBox="0 0 16 16" fill="none" stroke="currentColor" stroke-width="1.9" stroke-linecap="round" stroke-linejoin="round" aria-hidden="true"><path d="M3 8.5l3 3 7-7"/></svg><span>Song notes stay private too</span></li></ul></div>
-      <div class="rf-visual"><div class="device tablet fit"><div class="screen shot"><img src="/assets/annotate-ipad.jpg?v=3" alt="A score in Music Folder on iPad, marked up with circles, highlights, handwritten notes and music symbols" width="900" height="1200" loading="lazy"></div></div></div>
+      <div class="rf-visual"><div class="device tablet fit"><div class="screen shot"><img src="/assets/annotate-ipad.jpg?v=3" alt="A score in Music Folder on iPad, marked up with circles, highlights, handwritten notes and music symbols" width="900" height="1200" loading="lazy"></div><svg class="pencil" viewBox="0 0 380 22" aria-hidden="true" focusable="false"><defs><linearGradient id="pcBodyMH" x1="0" y1="0" x2="0" y2="1"><stop offset="0" stop-color="#FFFFFF"/><stop offset=".38" stop-color="#F7F7F5"/><stop offset=".8" stop-color="#DEDEDA"/><stop offset="1" stop-color="#C9C9C5"/></linearGradient><linearGradient id="pcTipMH" x1="0" y1="0" x2="0" y2="1"><stop offset="0" stop-color="#FAFAF8"/><stop offset="1" stop-color="#CFCFCB"/></linearGradient></defs><path d="M34 1H369a10 10 0 0 1 0 20H34Z" fill="url(#pcBodyMH)"/><path d="M34 4.2H369" stroke="#fff" stroke-width="1.6" opacity=".9"/><path d="M34 15.6H372" stroke="#000" stroke-opacity=".05" stroke-width="1"/><path d="M34 1L7 9.2v3.6L34 21Z" fill="url(#pcTipMH)"/><path d="M8.2 8.8L1 10.4a.7.7 0 0 0 0 1.2L8.2 13.2Z" fill="#8E8E8A"/><path d="M34 1v20" stroke="#000" stroke-opacity=".06"/></svg></div></div>
     </div><div class="row-feature">
       <div class="rf-text"><h2 class="heading-sm">Or send <em>a copy.</em></h2><p>For someone who just needs the music once, send a song, folder or set list as a file. They tap it to import, markings and all.</p><ul class="rf-points"><li><svg viewBox="0 0 16 16" fill="none" stroke="currentColor" stroke-width="1.9" stroke-linecap="round" stroke-linejoin="round" aria-hidden="true"><path d="M3 8.5l3 3 7-7"/></svg><span>Songs travel with their recording</span></li><li><svg viewBox="0 0 16 16" fill="none" stroke="currentColor" stroke-width="1.9" stroke-linecap="round" stroke-linejoin="round" aria-hidden="true"><path d="M3 8.5l3 3 7-7"/></svg><span>Set lists as one PDF for printing</span></li><li><svg viewBox="0 0 16 16" fill="none" stroke="currentColor" stroke-width="1.9" stroke-linecap="round" stroke-linejoin="round" aria-hidden="true"><path d="M3 8.5l3 3 7-7"/></svg><span>Works with AirDrop, Messages and email</span></li></ul></div>
       <div class="rf-visual"><div class="device phone fit"><div class="screen shot"><img src="/assets/share-sheet-iphone.jpg?v=3" alt="The share sheet in Music Folder on iPhone, sending four songs with AirDrop, Messages or Mail" width="700" height="1522" loading="lazy"></div></div></div>

diff --git a/for/students.html b/for/students.html
@@ -230,7 +230,7 @@
       <div class="rf-visual"><img class="cutout" src="/assets/home-ipad.webp?v=8" alt="The Music Folder home screen on iPad: recently opened scores, a practice streak and folders" width="600" height="787" loading="lazy" style="width:min(300px,80%)"></div>
     </div><div class="row-feature flip">
       <div class="rf-text"><h2 class="heading-sm">Mark it up <em>your way.</em></h2><p>Pencil in fingerings, breaths, cues and lesson notes with Apple Pencil or your finger. Your markings stay on your score and sync across your devices.</p><ul class="rf-points"><li><svg viewBox="0 0 16 16" fill="none" stroke="currentColor" stroke-width="1.9" stroke-linecap="round" stroke-linejoin="round" aria-hidden="true"><path d="M3 8.5l3 3 7-7"/></svg><span>Pens, highlighters and text in several colors</span></li><li><svg viewBox="0 0 16 16" fill="none" stroke="currentColor" stroke-width="1.9" stroke-linecap="round" stroke-linejoin="round" aria-hidden="true"><path d="M3 8.5l3 3 7-7"/></svg><span>Song notes for what to work on next</span></li><li><svg viewBox="0 0 16 16" fill="none" stroke="currentColor" stroke-width="1.9" stroke-linecap="round" stroke-linejoin="round" aria-hidden="true"><path d="M3 8.5l3 3 7-7"/></svg><span>Record yourself and listen back</span></li></ul></div>
-      <div class="rf-visual"><div class="device tablet fit"><div class="screen shot"><img src="/assets/annotate-ipad.jpg?v=3" alt="A score in Music Folder on iPad, marked up with circles, highlights, handwritten notes and music symbols, with the pen palette and the Symbols panel open" width="900" height="1200" loading="lazy"></div></div></div>
+      <div class="rf-visual"><div class="device tablet fit"><div class="screen shot"><img src="/assets/annotate-ipad.jpg?v=3" alt="A score in Music Folder on iPad, marked up with circles, highlights, handwritten notes and music symbols, with the pen palette and the Symbols panel open" width="900" height="1200" loading="lazy"></div><svg class="pencil" viewBox="0 0 380 22" aria-hidden="true" focusable="false"><defs><linearGradient id="pcBodyMS" x1="0" y1="0" x2="0" y2="1"><stop offset="0" stop-color="#FFFFFF"/><stop offset=".38" stop-color="#F7F7F5"/><stop offset=".8" stop-color="#DEDEDA"/><stop offset="1" stop-color="#C9C9C5"/></linearGradient><linearGradient id="pcTipMS" x1="0" y1="0" x2="0" y2="1"><stop offset="0" stop-color="#FAFAF8"/><stop offset="1" stop-color="#CFCFCB"/></linearGradient></defs><path d="M34 1H369a10 10 0 0 1 0 20H34Z" fill="url(#pcBodyMS)"/><path d="M34 4.2H369" stroke="#fff" stroke-width="1.6" opacity=".9"/><path d="M34 15.6H372" stroke="#000" stroke-opacity=".05" stroke-width="1"/><path d="M34 1L7 9.2v3.6L34 21Z" fill="url(#pcTipMS)"/><path d="M8.2 8.8L1 10.4a.7.7 0 0 0 0 1.2L8.2 13.2Z" fill="#8E8E8A"/><path d="M34 1v20" stroke="#000" stroke-opacity=".06"/></svg></div></div>
     </div>
   </div>
 </section>
